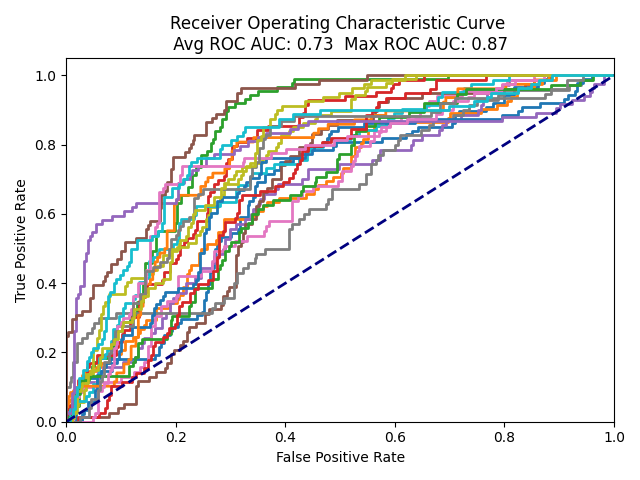
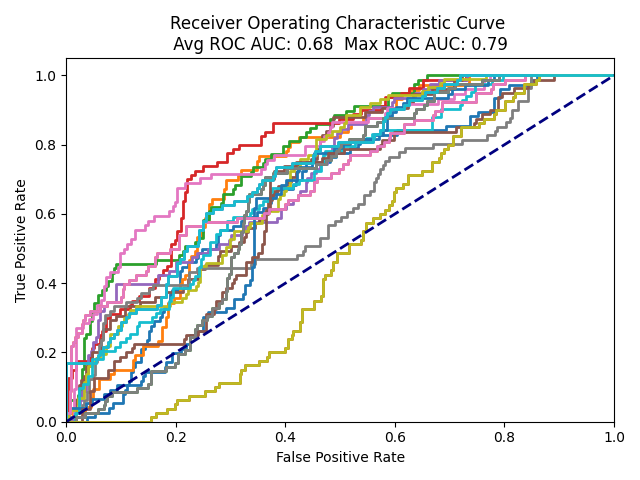
tests

diff --git a/configs.py b/configs.py
@@ -3,7 +3,7 @@ TEST_SIZE = 0.3
 CHANNELS = 3
 HEIGHT = 256
 WIDTH = 256
-SEED = 12345 #for reproductability
+SEED = 12000 #for reproductability
 
 split_train = 0.6
 split_valid = 0.3
